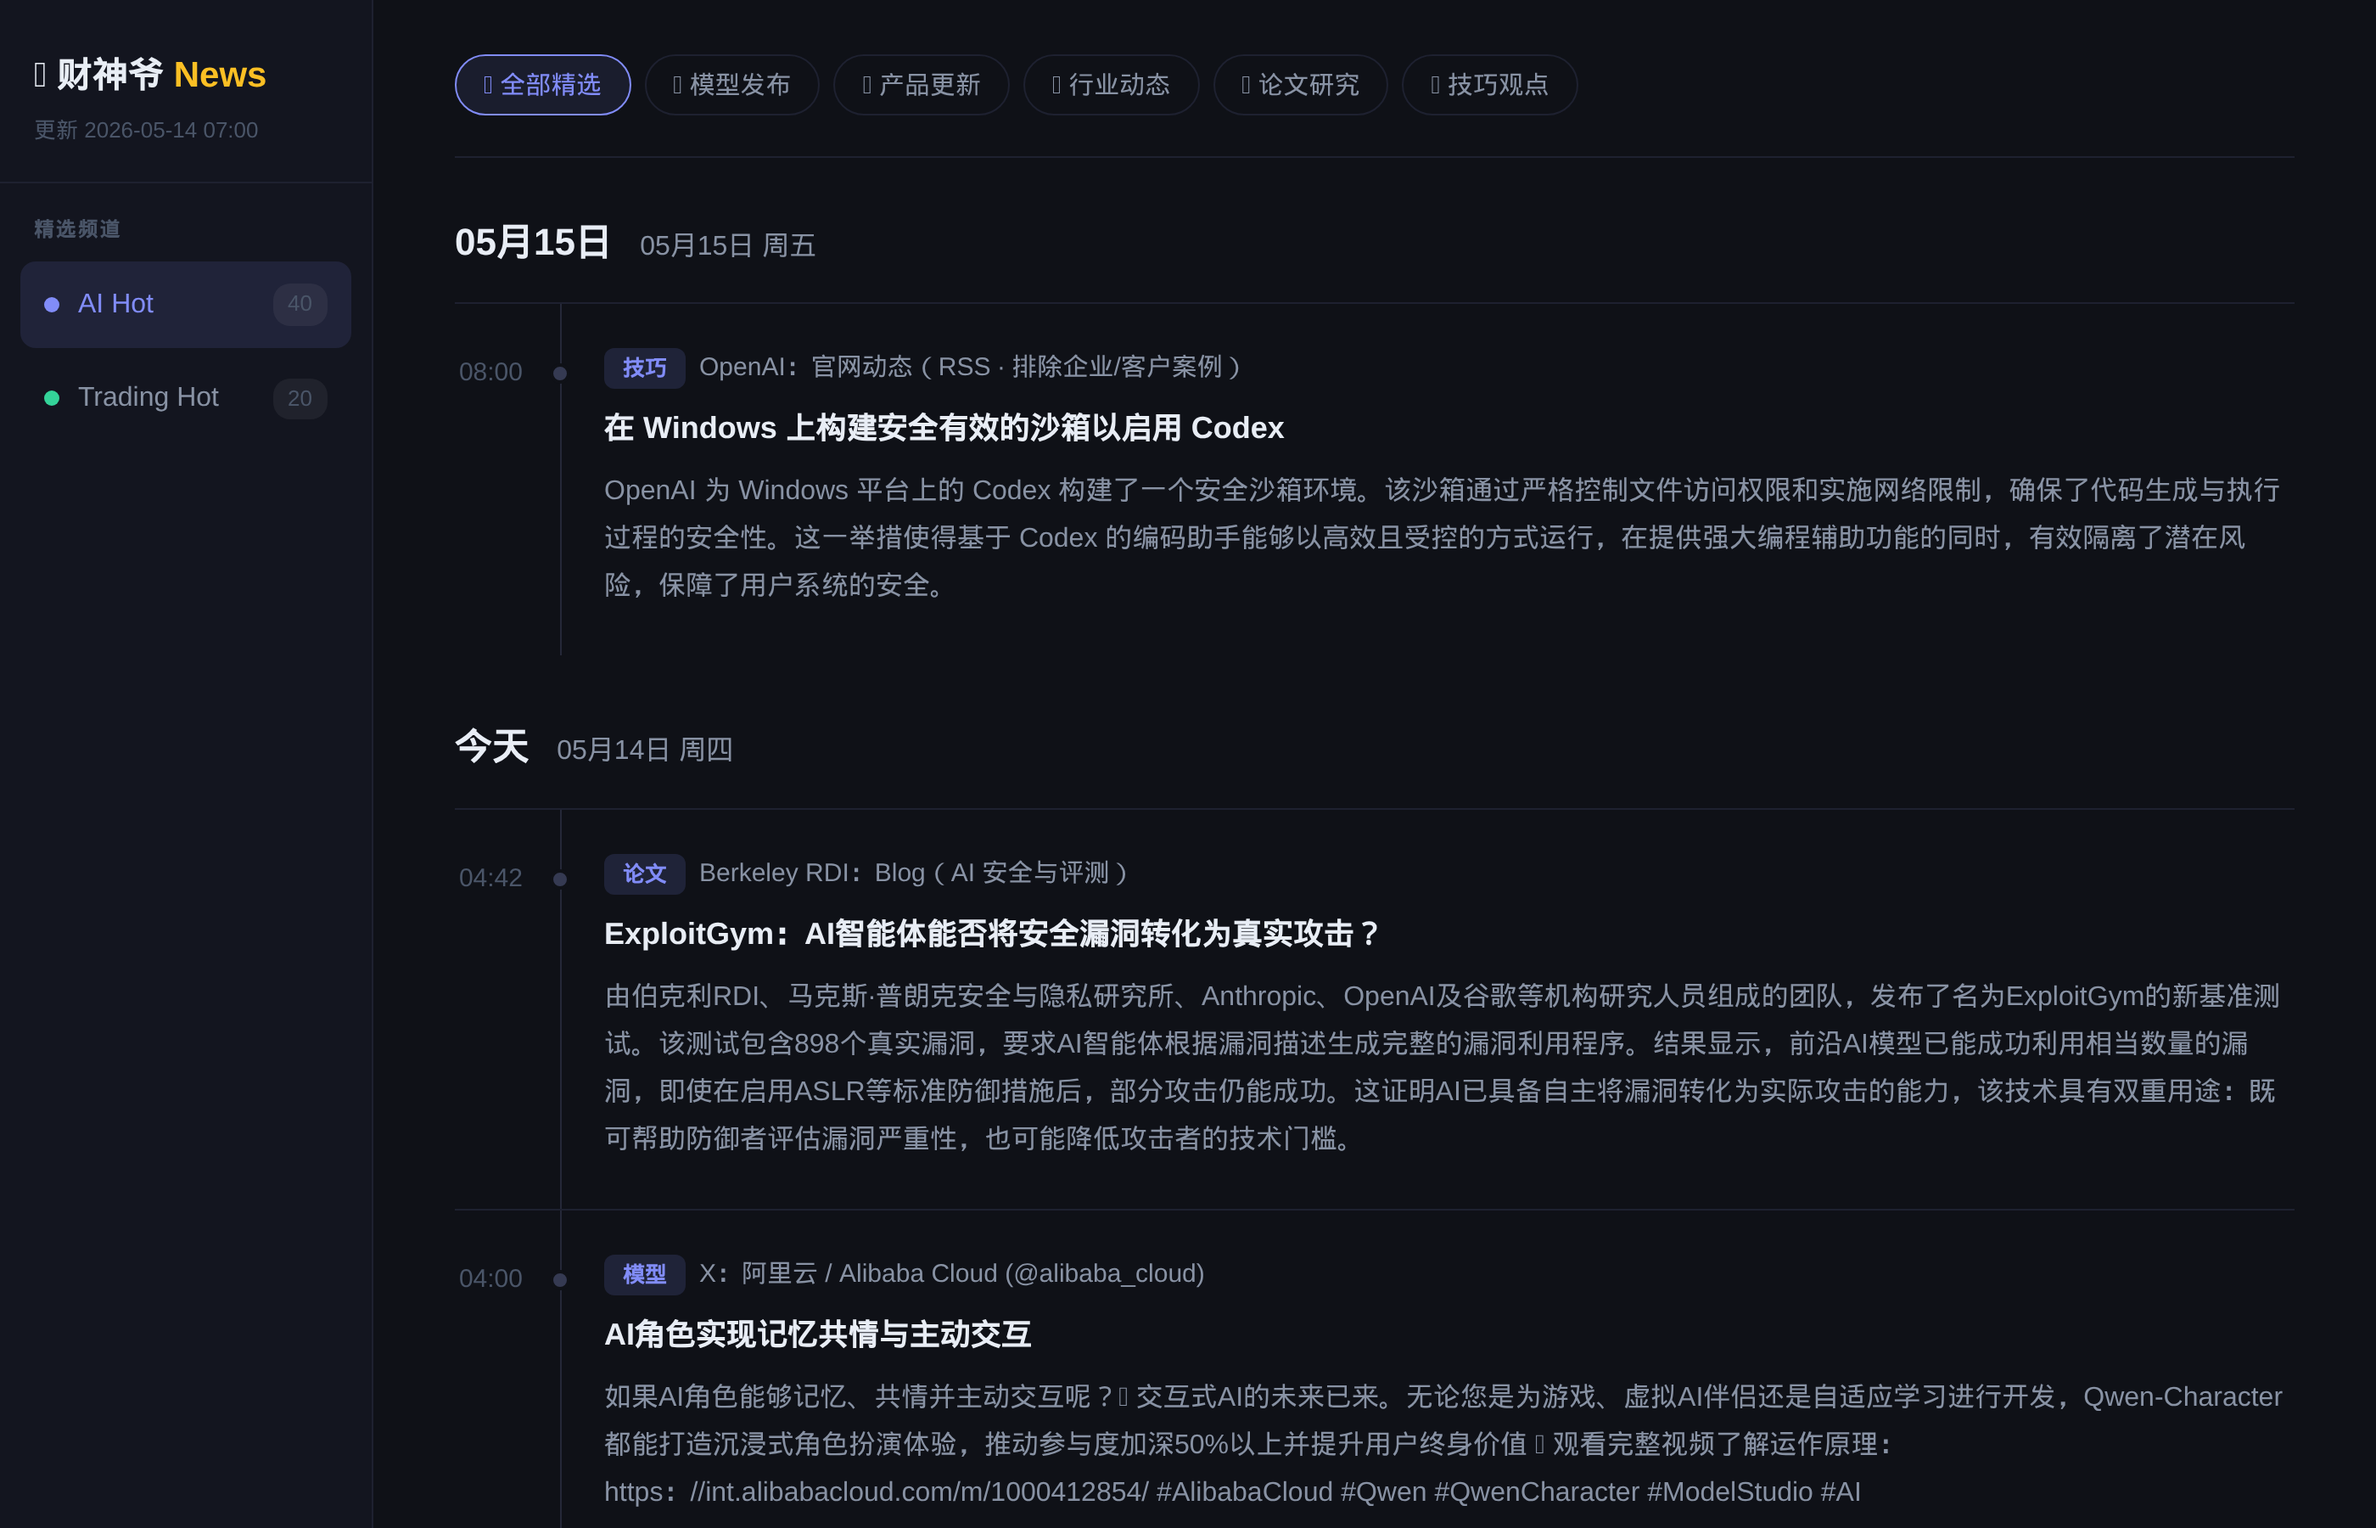
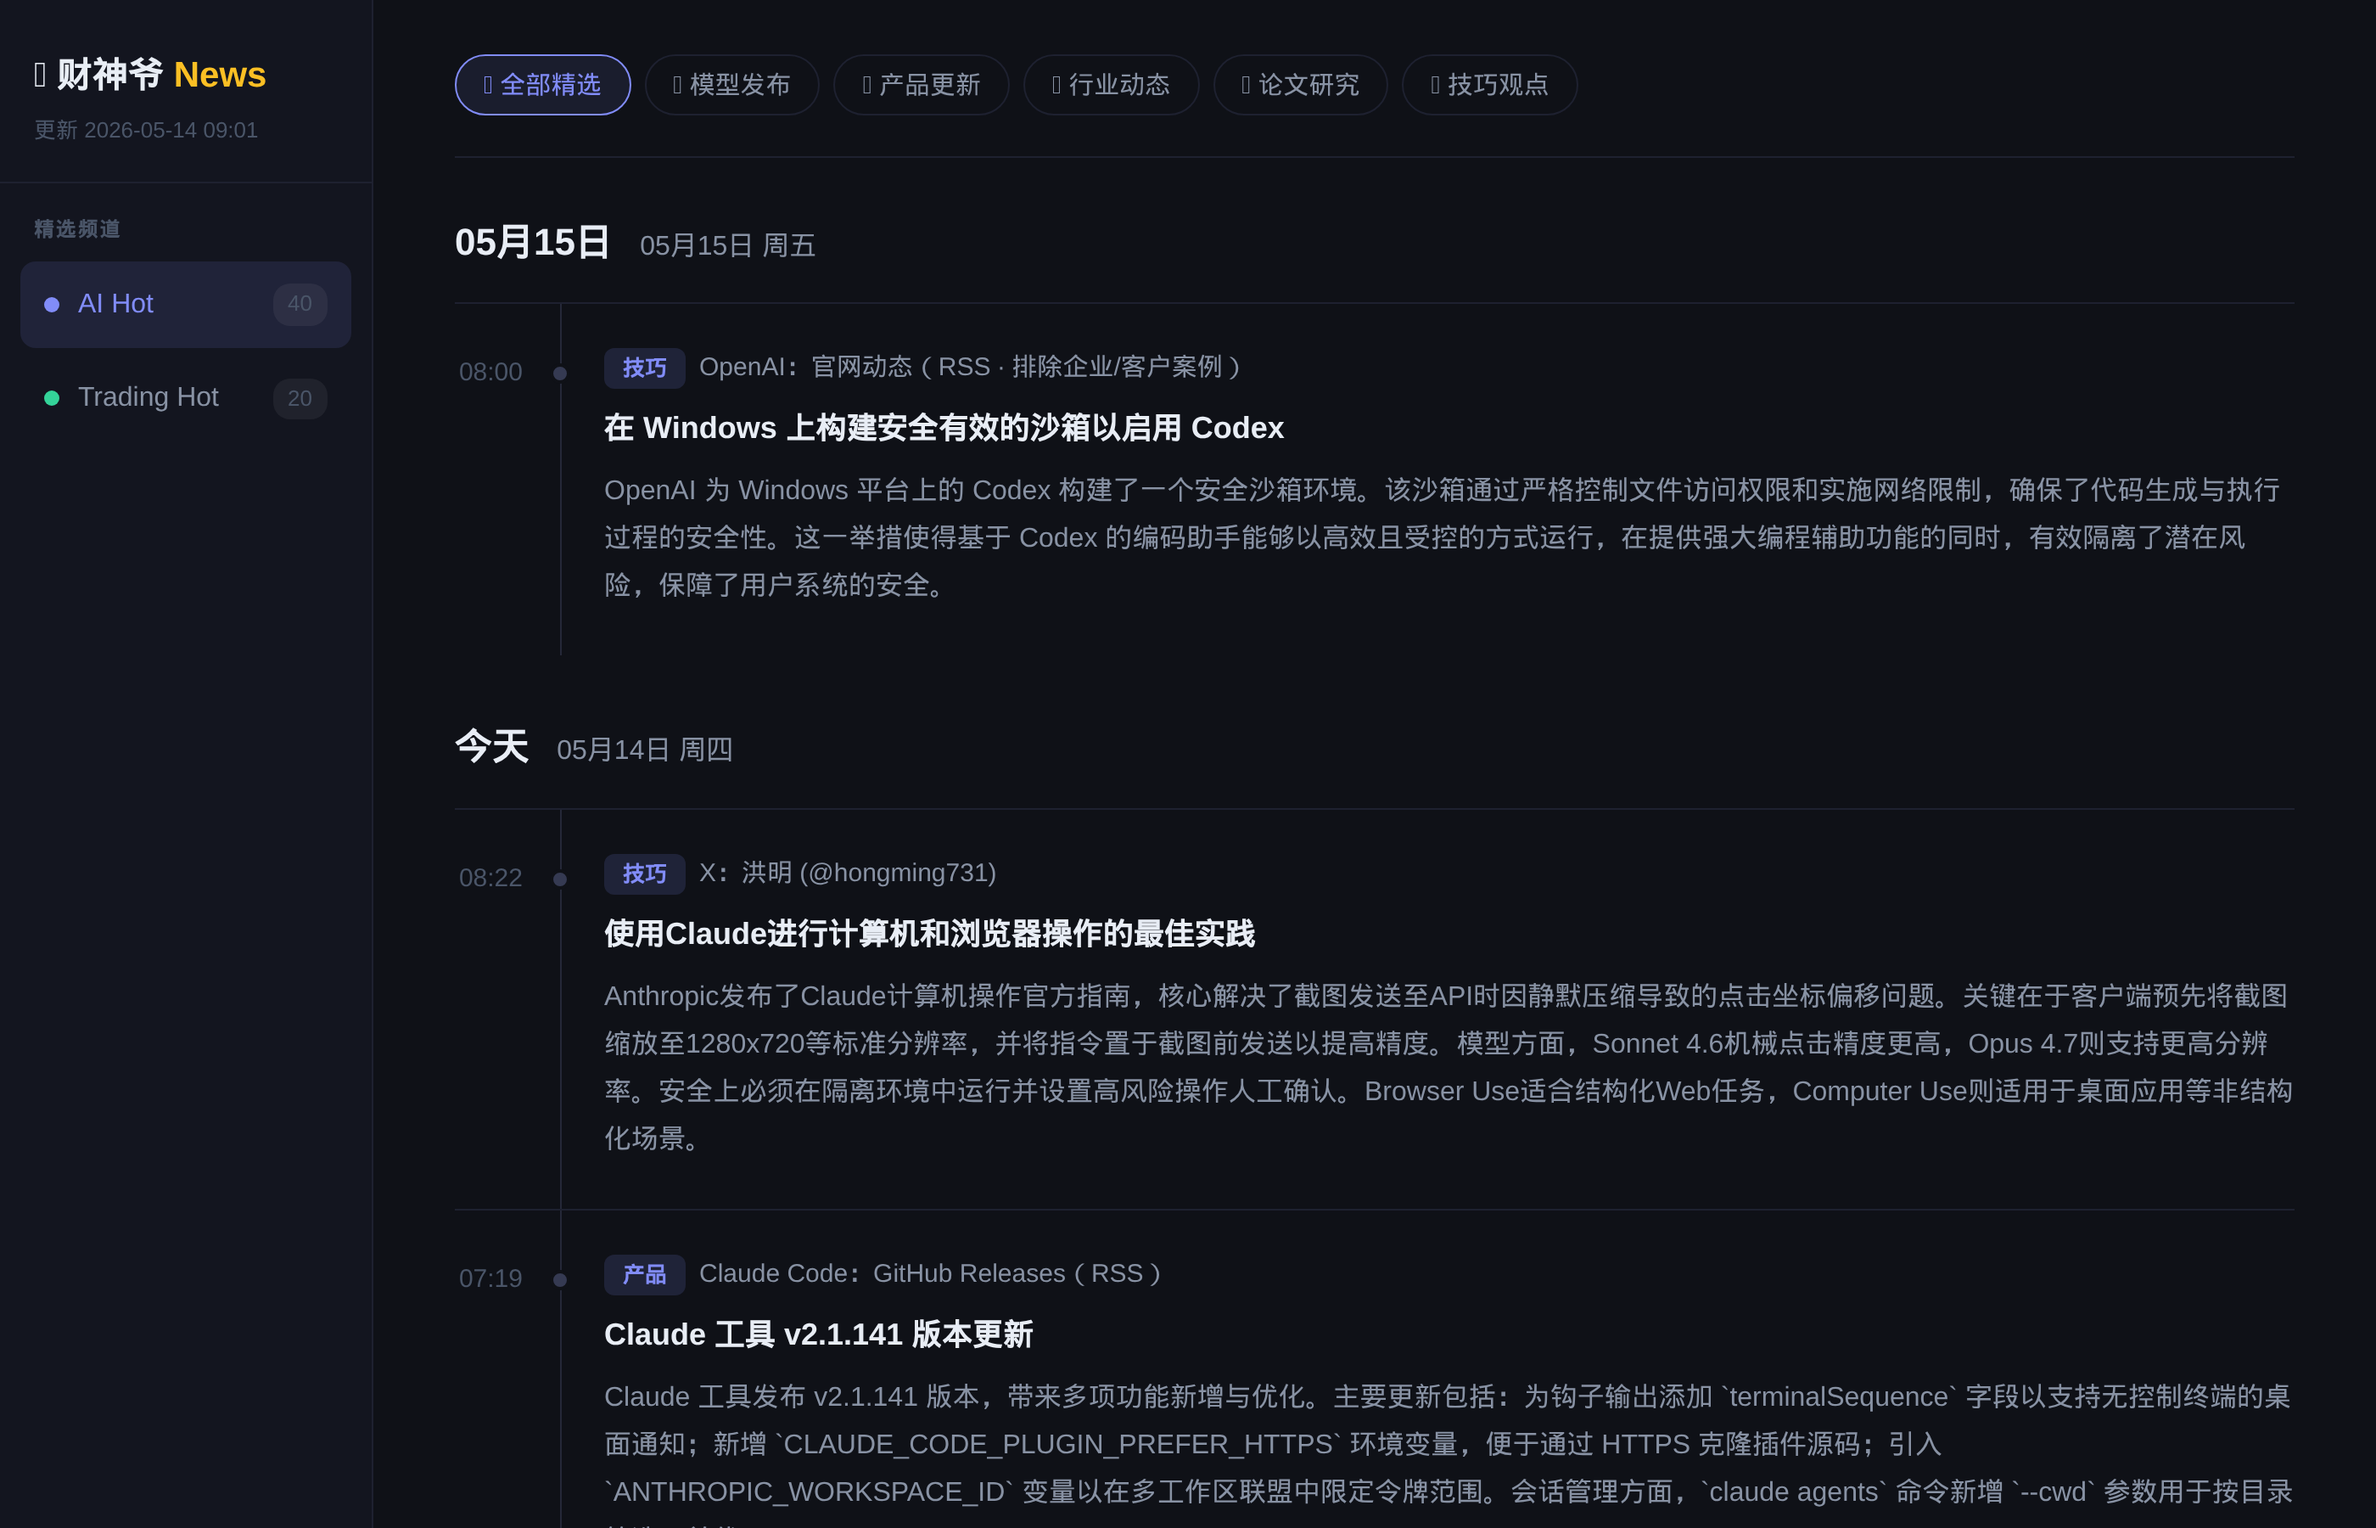
auto update 2026-05-14 10:42

Changed region(s): [[0.2486, 0.56, 0.9632, 0.7778], [0.2486, 0.8089, 0.9632, 0.9956]]

diff --git a/index.html b/index.html
@@ -106,7 +106,7 @@ body{font-family:-apple-system,BlinkMacSystemFont,"Segoe UI","PingFang SC","Micr
 <body>
 <aside class="sb">
   <div class="sb-logo">💰 财神爷 <span>News</span>
-    <div class="sb-up">更新 2026-05-14 07:00</div>
+    <div class="sb-up">更新 2026-05-14 09:01</div>
   </div>
   <nav class="sb-nav">
     <div class="nav-lbl">精选频道</div>
@@ -137,6 +137,33 @@ body{font-family:-apple-system,BlinkMacSystemFont,"Segoe UI","PingFang SC","Micr
     <div class="dgroup">
       <div class="dheader">今天 <span class='dsub'>05月14日 周四</span></div>
       <div class="ilist">
+      <div class="item" data-cats="tip">
+        <div class="item-time">08:22</div>
+        <div class="item-body">
+          <div class="item-meta"><span class="badge badge-ai">技巧</span><span class="isrc">X：洪明 (@hongming731)</span></div>
+          <a class="item-title" href="https://x.com/hongming731/status/2054719051805687939" target="_blank" rel="noopener">使用Claude进行计算机和浏览器操作的最佳实践</a>
+          <div class="item-summary">Anthropic发布了Claude计算机操作官方指南，核心解决了截图发送至API时因静默压缩导致的点击坐标偏移问题。关键在于客户端预先将截图缩放至1280x720等标准分辨率，并将指令置于截图前发送以提高精度。模型方面，Sonnet 4.6机械点击精度更高，Opus 4.7则支持更高分辨率。安全上必须在隔离环境中运行并设置高风险操作人工确认。Browser Use适合结构化Web任务，Computer Use则适用于桌面应用等非结构化场景。</div>
+        </div>
+      </div>
+
+      <div class="item" data-cats="ai-products">
+        <div class="item-time">07:19</div>
+        <div class="item-body">
+          <div class="item-meta"><span class="badge badge-ai">产品</span><span class="isrc">Claude Code：GitHub Releases（RSS）</span></div>
+          <a class="item-title" href="https://github.com/anthropics/claude-code/releases/tag/v2.1.141" target="_blank" rel="noopener">Claude 工具 v2.1.141 版本更新</a>
+          <div class="item-summary">Claude 工具发布 v2.1.141 版本，带来多项功能新增与优化。主要更新包括：为钩子输出添加 `terminalSequence` 字段以支持无控制终端的桌面通知；新增 `CLAUDE_CODE_PLUGIN_PREFER_HTTPS` 环境变量，便于通过 HTTPS 克隆插件源码；引入 `ANTHROPIC_WORKSPACE_ID` 变量以在多工作区联盟中限定令牌范围。会话管理方面，`claude agents` 命令新增 `--cwd` 参数用于按目录筛选，并优</div>
+        </div>
+      </div>
+
+      <div class="item" data-cats="tip">
+        <div class="item-time">07:15</div>
+        <div class="item-body">
+          <div class="item-meta"><span class="badge badge-ai">技巧</span><span class="isrc">X：洪明 (@hongming731)</span></div>
+          <a class="item-title" href="https://x.com/hongming731/status/2054701978924859865" target="_blank" rel="noopener">BestBlogs早报：AI智能体工程化实战与安全架构</a>
+          <div class="item-summary">BestBlogs早报聚焦AI智能体的工程化落地。Anthropic官方指南详解Claude Computer Use最佳实践，包括解决点击偏移的根本原因、推荐分辨率策略及必须采用虚拟机隔离与人工确认门控的安全原则。OpenAI工程师分享了为Codex构建Windows安全沙箱的历程，其最终方案通过专属安全标识符和写受限令牌，实现了操作系统层面的强制文件系统隔离。早报同时指出，基准测试优异的RAG Agent在生产环境中可能出现高达30%的幻觉率。</div>
+        </div>
+      </div>
+
       <div class="item" data-cats="paper">
         <div class="item-time">04:42</div>
         <div class="item-body">
@@ -529,37 +556,6 @@ https：//x.com/browser_use/status/2054330495249564094/video/1</div>
           <div class="item-summary">如何让Claude持续工作直至任务完成？Claude Code通过几种方式提供帮助，包括我们最近推出的功能：/goal。</div>
         </div>
       </div>
-
-      <div class="item" data-cats="tip">
-        <div class="item-time">08:00</div>
-        <div class="item-body">
-          <div class="item-meta"><span class="badge badge-ai">技巧</span><span class="isrc">Tomer Tunguz 博客（VC 分析）</span></div>
-          <a class="item-title" href="https://www.tomtunguz.com/the-disappearance-of-email" target="_blank" rel="noopener">The 6 Messages That Actually Matter</a>
-          <div class="item-summary">知识工作者平均每天收到121封邮件，传统收件箱处理模式难以为继。未来邮件处理将转向高度个性化与自动化：用户能用自然语言定义处理规则，实现收据自动转发、销售线索自动录入CRM等流程。所有历史邮件将构成个人上下文层，为AI处理新邮件提供背景信息，敏感信息则由设备端模型进行私密处理。最终，收件箱本身将消失，真正重要的信息可能浓缩至仅6条。</div>
-        </div>
-      </div>
-
-      <div class="item" data-cats="tip">
-        <div class="item-time">07:13</div>
-        <div class="item-body">
-          <div class="item-meta"><span class="badge badge-ai">技巧</span><span class="isrc">X：Berry Xia (@berryxia)</span></div>
-          <a class="item-title" href="https://x.com/berryxia/status/2054339265103065156" target="_blank" rel="noopener">90%的人在白白浪费&quot;Token&quot;！</a>
-          <div class="item-summary">Andrej Karpathy指出，AI编程账单的90%浪费在发送不必要的上下文上。常见浪费行为包括：过度加载文件、使用高价模型处理简单任务、Agent重复发送整个代码库、默认选用高价模型而非性价比更高的替代品。优化策略强调严格管理上下文、启用提示词缓存、采用多模型路由（如主力用Kimi 2.6，关键任务用Opus）、创建SKILL.md文件避免知识重建、先分析工具调用再优化提示。未来，开发者月花费的巨大差距将取决于其上下文和模型路由的管理能力，而非纯粹的技术水平。</div>
-        </div>
-      </div>
-
-      <div class="item" data-cats="ai-products">
-        <div class="item-time">06:22</div>
-        <div class="item-body">
-          <div class="item-meta"><span class="badge badge-ai">产品</span><span class="isrc">X：Demis Hassabis (@demishassabis)</span></div>
-          <a class="item-title" href="https://x.com/demishassabis/status/2054326444189253655" target="_blank" rel="noopener">谷歌AI重塑智能鼠标指针交互</a>
-          <div class="item-summary">团队正在用AI重新构想鼠标指针，成果非常酷！在@GoogleAIStudio尝试原型版本，体验相当神奇。
-
-【引用 @GoogleDeepMind】：我们正用AI重新构想这个存在50年的界面--鼠标指针。🖱
-
-这些实验演示展示了人们如何通过动作、语音和自然简写，在屏幕上直观操控Gemini完成任务🧵</div>
-        </div>
-      </div>
       </div>
     </div>
   </div>
@@ -568,7 +564,7 @@ https：//x.com/browser_use/status/2054330495249564094/video/1</div>
         <div class="dgroup">
       <div class="dheader">昨天 <span class='dsub'>05月13日 周三</span></div>
       <div class="ilist">
-      <div class="item" data-cats="top crypto">
+      <div class="item" data-cats="crypto top">
         <div class="item-time">04:56</div>
         <div class="item-body">
           <div class="item-meta"><span class="badge badge-trading">加密</span><span class="score-badge">72分</span><span class="isrc">The Block</span><span class="ticker">$C</span><span class="ticker">$COIN</span></div>
@@ -588,7 +584,7 @@ https：//x.com/browser_use/status/2054330495249564094/video/1</div>
         </div>
       </div>
 
-      <div class="item" data-cats="ai_tech top crypto">
+      <div class="item" data-cats="crypto ai_tech top">
         <div class="item-time">04:46</div>
         <div class="item-body">
           <div class="item-meta"><span class="badge badge-trading">加密</span><span class="score-badge">68分</span><span class="isrc">Decrypt</span><span class="ticker">$F</span></div>
@@ -638,7 +634,7 @@ https：//x.com/browser_use/status/2054330495249564094/video/1</div>
         </div>
       </div>
 
-      <div class="item" data-cats="ai_tech top crypto">
+      <div class="item" data-cats="crypto ai_tech top">
         <div class="item-time">03:45</div>
         <div class="item-body">
           <div class="item-meta"><span class="badge badge-trading">加密</span><span class="score-badge">69分</span><span class="isrc">Decrypt</span><span class="ticker">$BTC</span><span class="ticker">$MARA</span></div>
@@ -752,7 +748,7 @@ https：//x.com/browser_use/status/2054330495249564094/video/1</div>
         </div>
       </div>
 
-      <div class="item" data-cats="top crypto">
+      <div class="item" data-cats="crypto top">
         <div class="item-time">22:37</div>
         <div class="item-body">
           <div class="item-meta"><span class="badge badge-trading">加密</span><span class="score-badge">70分</span><span class="isrc">Decrypt</span><span class="ticker">$C</span></div>
@@ -762,7 +758,7 @@ https：//x.com/browser_use/status/2054330495249564094/video/1</div>
         </div>
       </div>
 
-      <div class="item" data-cats="top crypto">
+      <div class="item" data-cats="crypto top">
         <div class="item-time">19:55</div>
         <div class="item-body">
           <div class="item-meta"><span class="badge badge-trading">加密</span><span class="score-badge">75分</span><span class="isrc">Decrypt</span><span class="ticker">$C</span></div>
